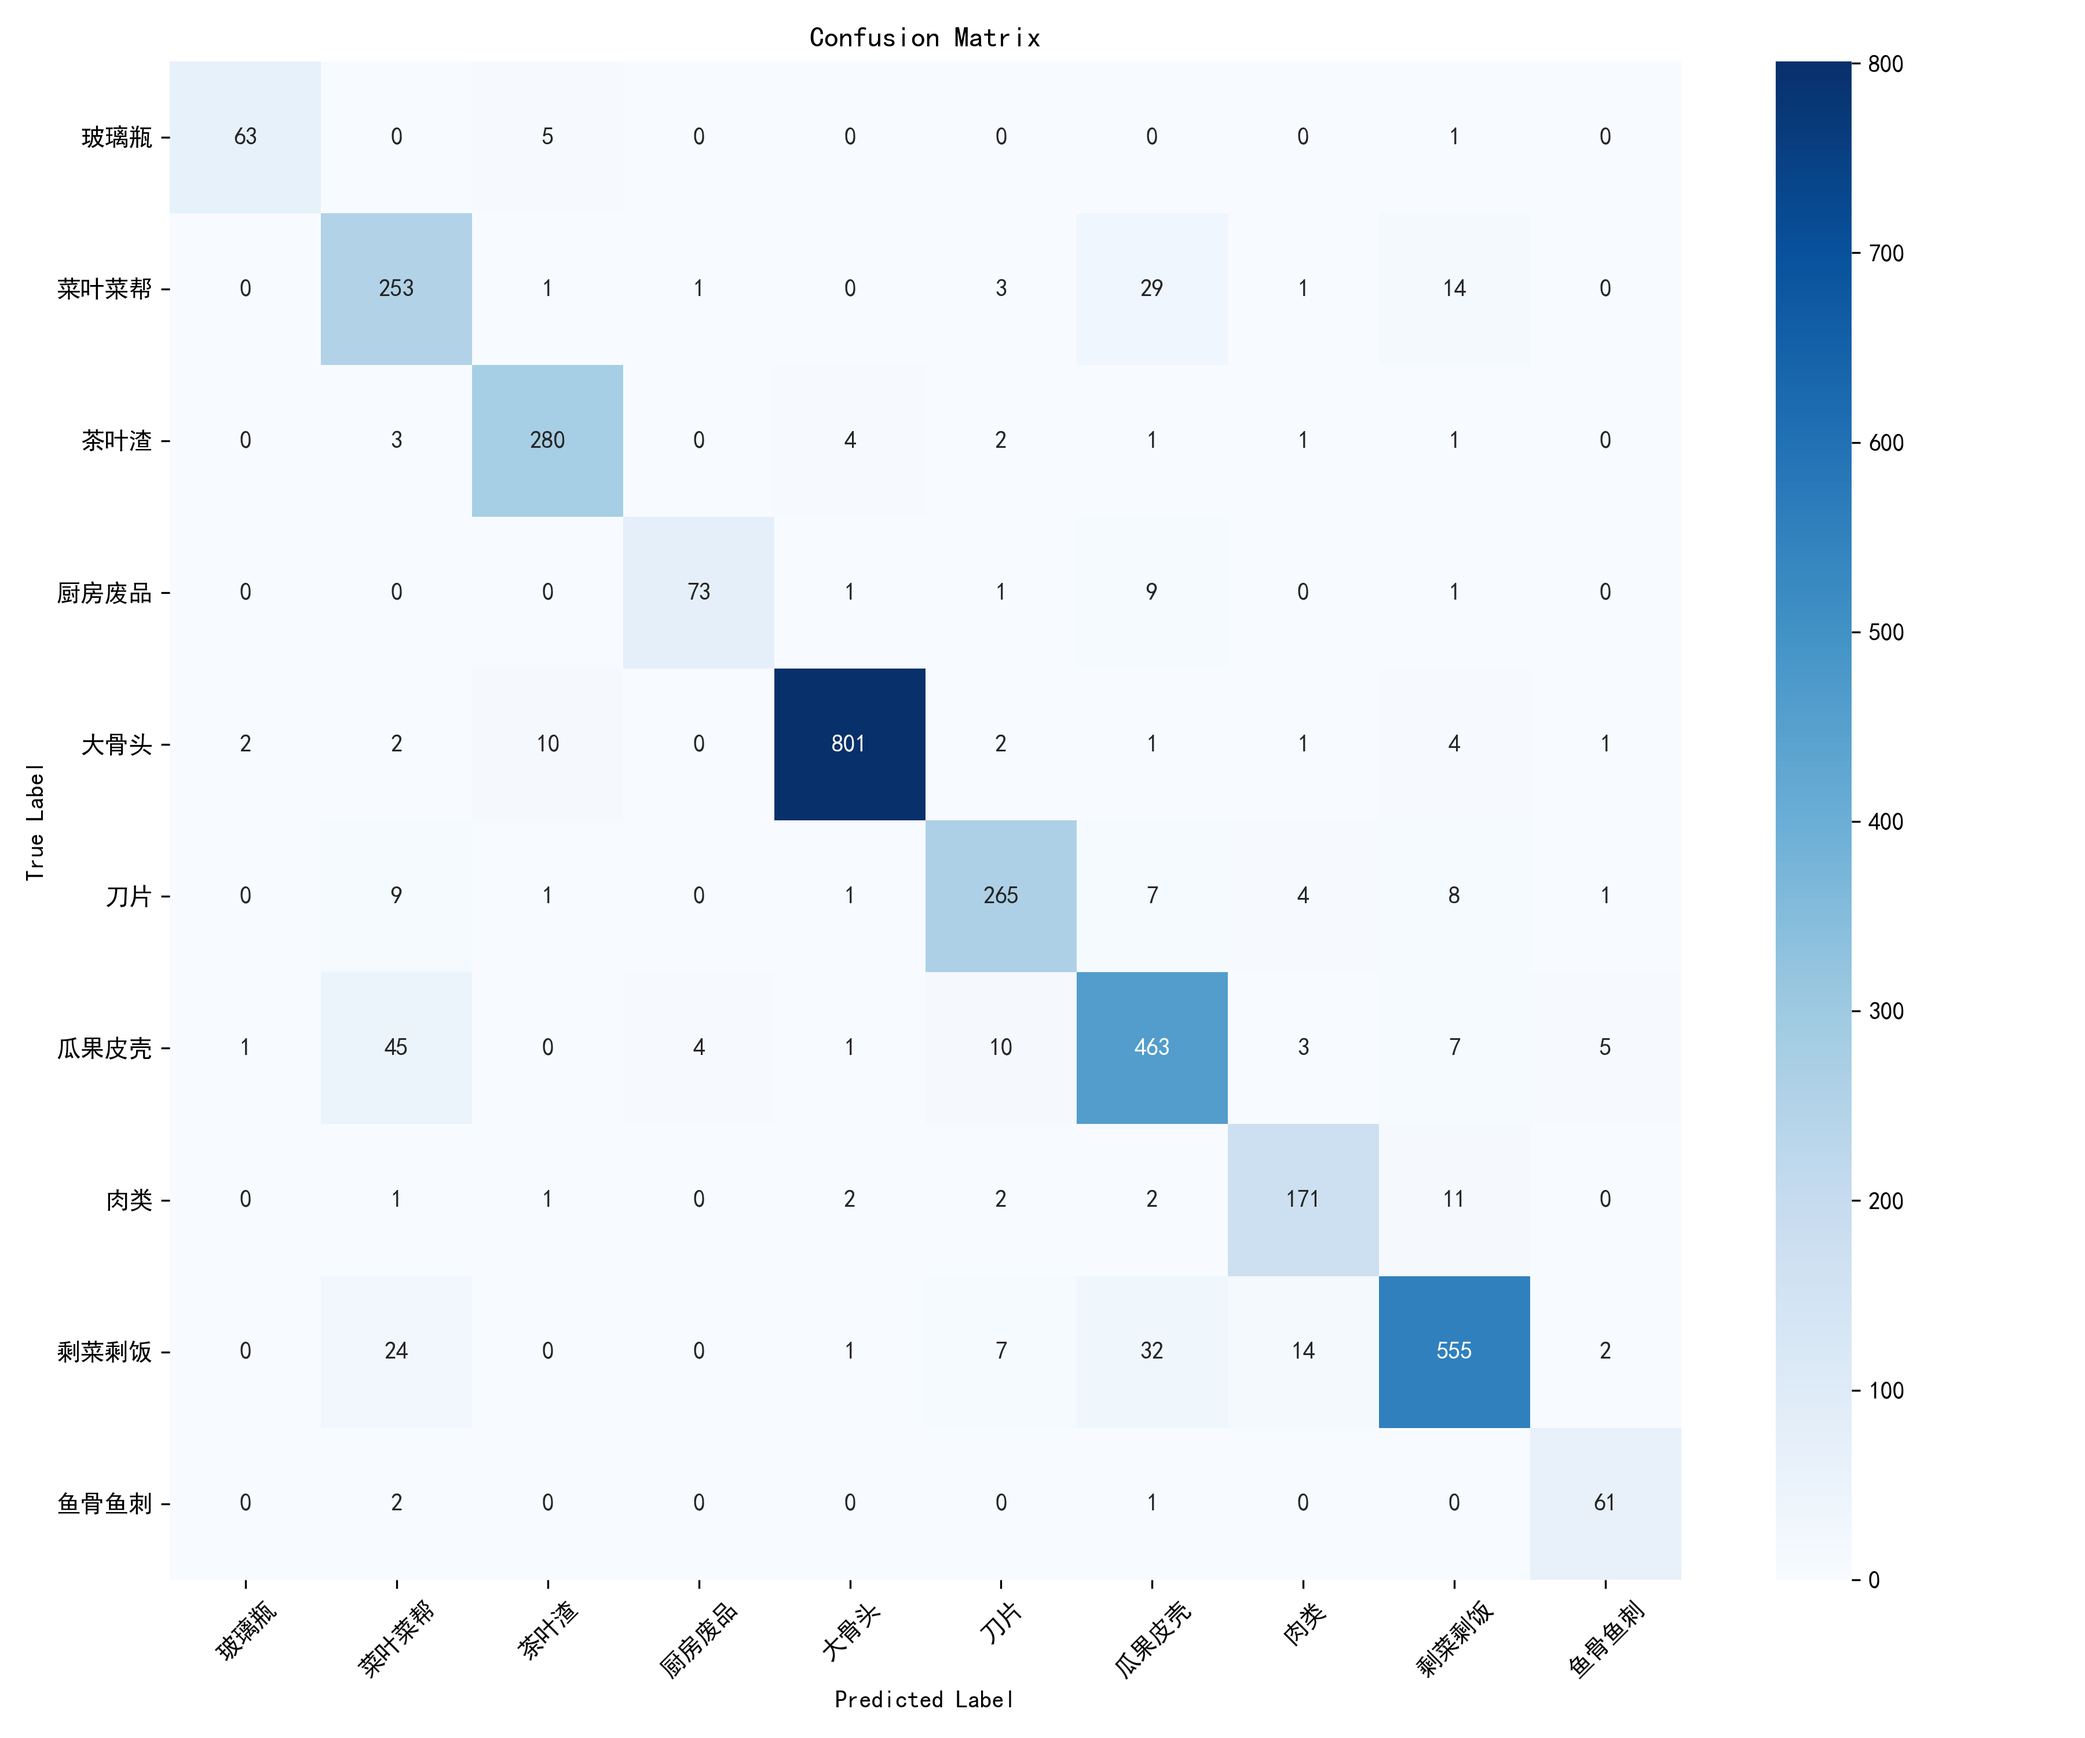
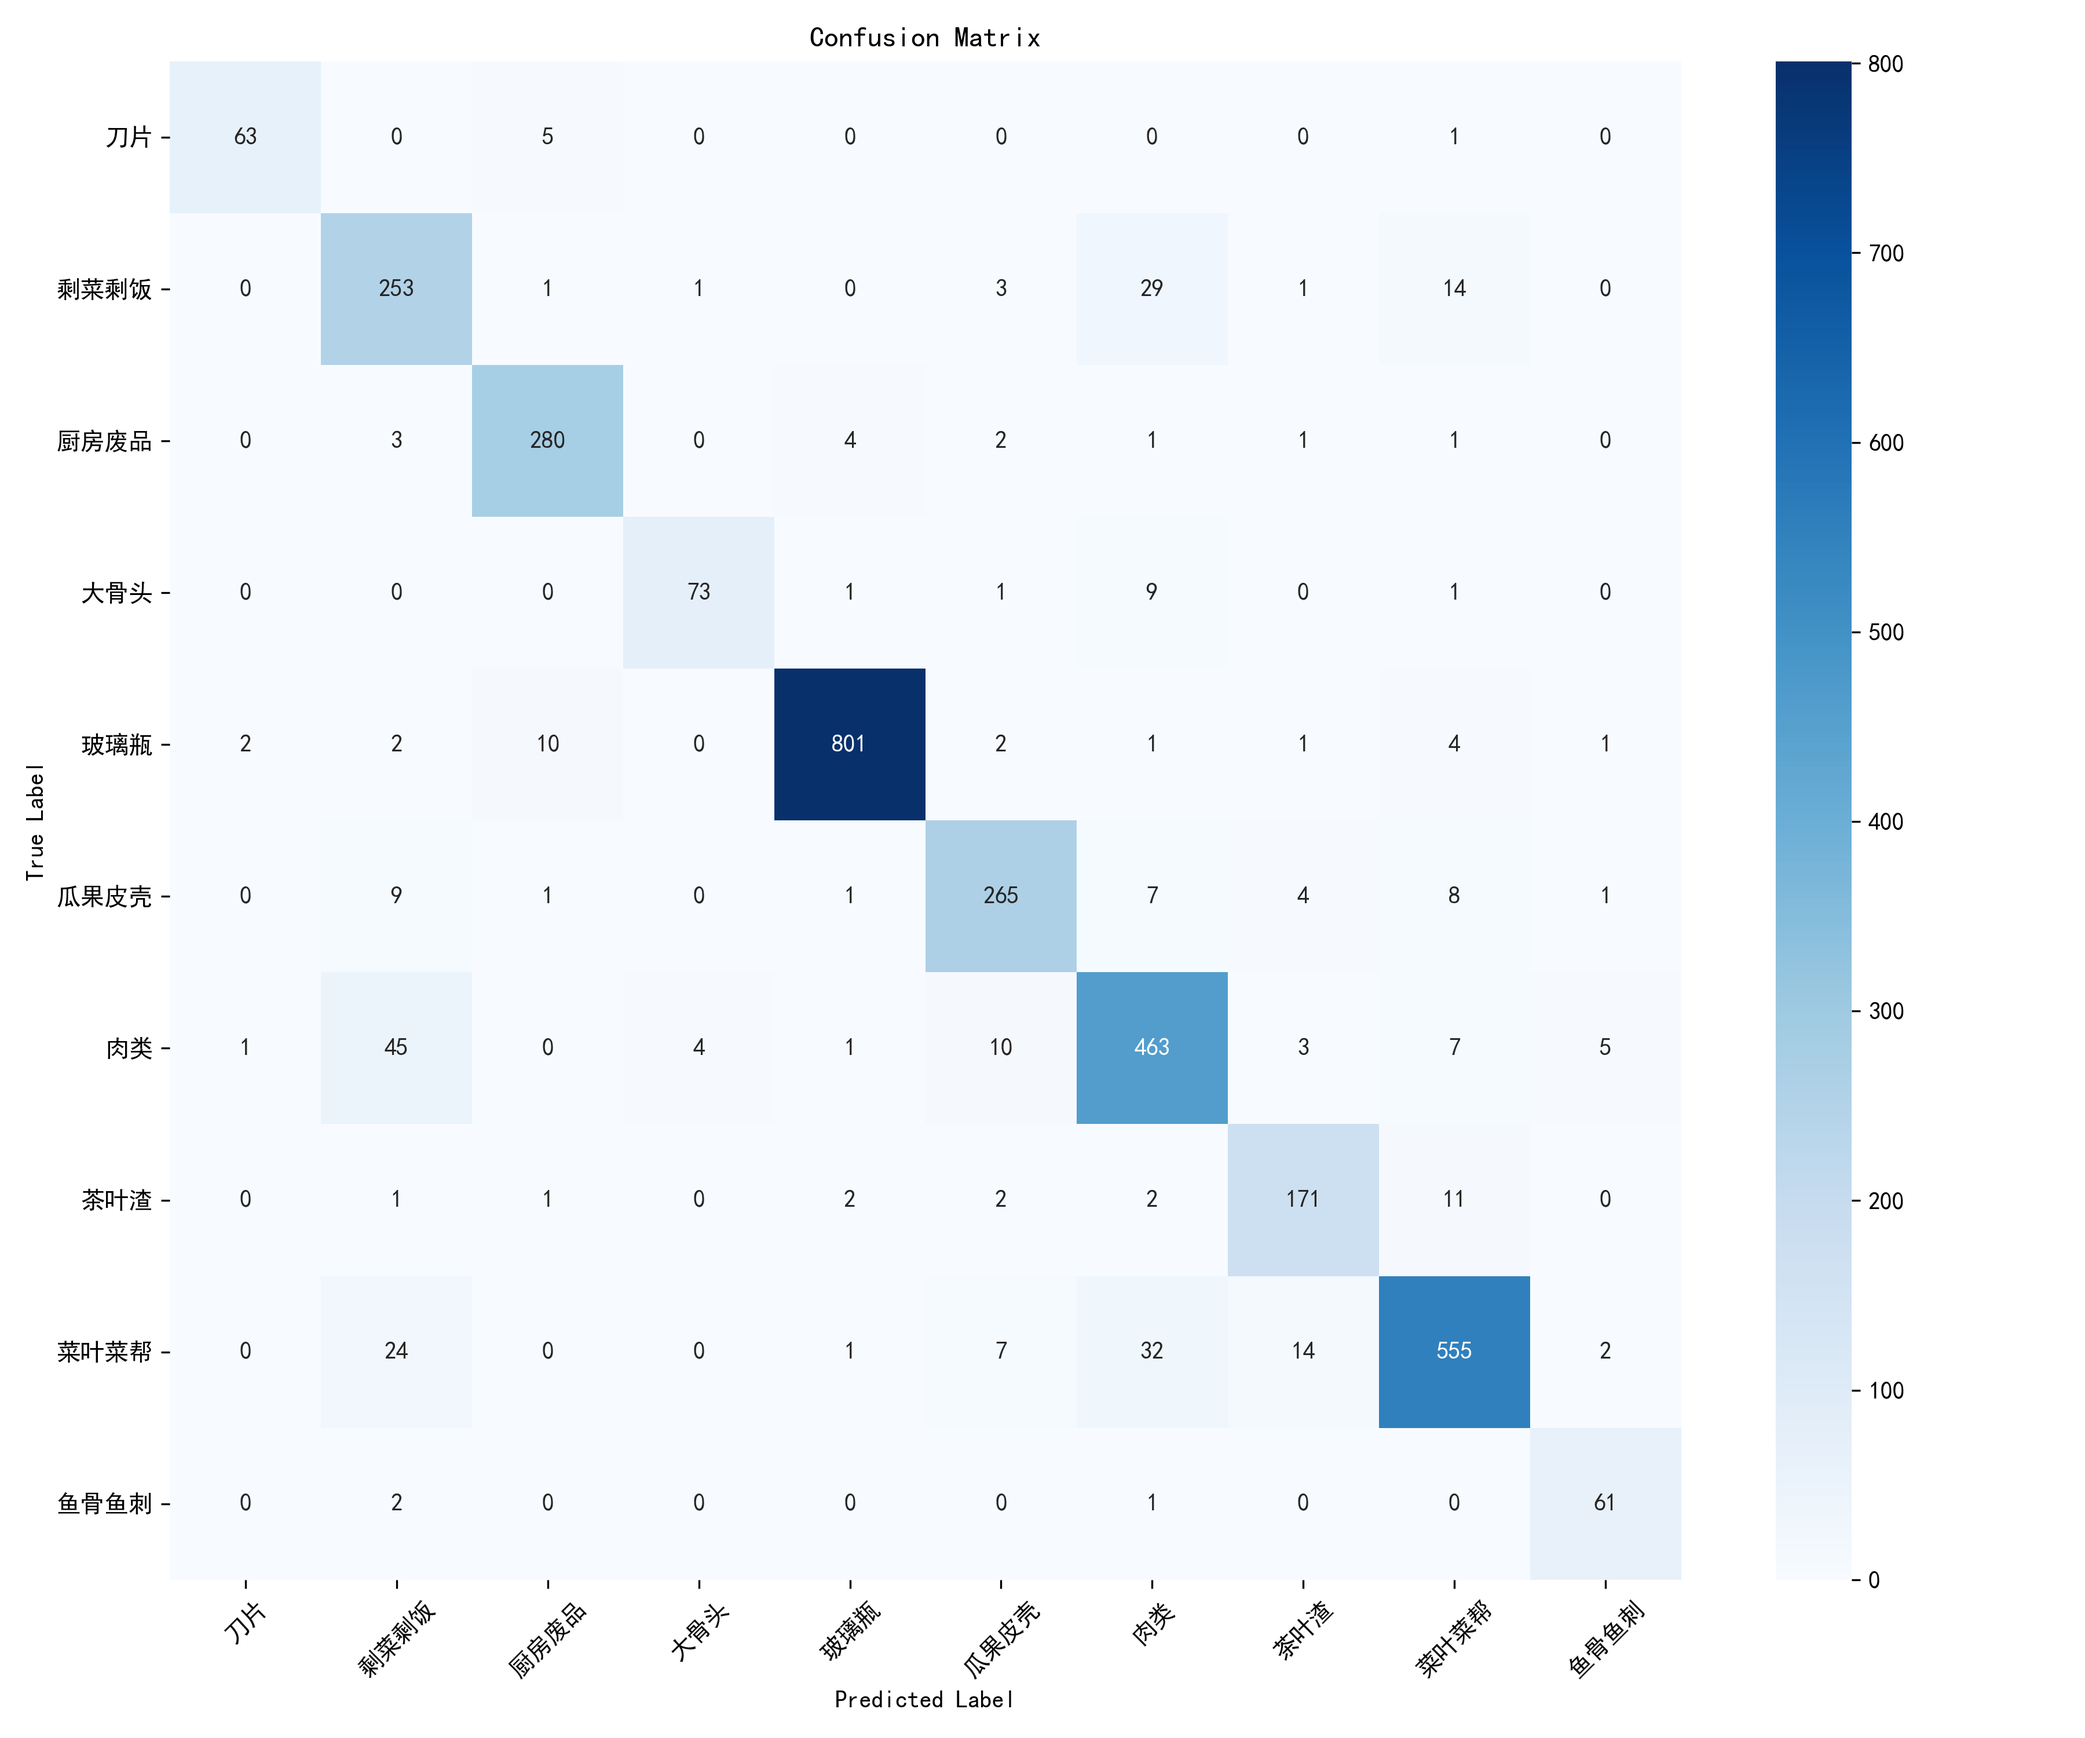
结束

diff --git a/get_result.py b/get_result.py
@@ -12,7 +12,18 @@ import pandas as pd
 plt.rcParams['font.sans-serif'] = ['SimHei']      # 支持中文
 plt.rcParams['axes.unicode_minus'] = False        # 解决负号 '-' 显示为方块的问题
 
-class_names = ['玻璃瓶', '菜叶菜帮', '茶叶渣', '厨房废品', '大骨头', '刀片', '瓜果皮壳', '肉类', '剩菜剩饭', '鱼骨鱼刺']
+class_names = [
+    "刀片",
+    "剩菜剩饭",
+    "厨房废品",
+    "大骨头",
+    "玻璃瓶",
+    "瓜果皮壳",
+    "肉类",
+    "茶叶渣",
+    "菜叶菜帮",
+    "鱼骨鱼刺"
+]
 
 imagenet_mean = [0.485, 0.456, 0.406]
 imagenet_std = [0.229, 0.224, 0.225]
@@ -70,8 +81,8 @@ print(f"Top-5 Accuracy: {top5_acc:.4f}")
 # ------------------------ 分类报告 ------------------------
 report = classification_report(all_labels, all_preds, target_names=class_names, output_dict=True)
 df_report = pd.DataFrame(report).transpose()
-df_report.to_excel("classification_report.xlsx", index=True)  # 输出 Excel 文件
-print("分类报告已保存为 classification_report.xlsx")
+df_report.to_excel("classification_reportA.xlsx", index=True)  # 输出 Excel 文件
+print("分类报告已保存为 classification_reportA.xlsx")
 
 # ------------------------ 混淆矩阵 ------------------------
 cm = confusion_matrix(all_labels, all_preds)

diff --git a/inference.py b/inference.py
@@ -1,0 +1,44 @@
+import torch
+import torchvision
+from torchvision import transforms
+from PIL import Image
+import torch.nn as nn
+class_names = [
+    "刀片",
+    "剩菜剩饭",
+    "厨房废品",
+    "大骨头",
+    "玻璃瓶",
+    "瓜果皮壳",
+    "肉类",
+    "茶叶渣",
+    "菜叶菜帮",
+    "鱼骨鱼刺"
+]
+
+device = 'cpu'
+# device = 'cuda'
+
+net = torchvision.models.resnet18(weights=None)
+net.fc = nn.Linear(net.fc.in_features, 10)  
+net.load_state_dict(torch.load('./models/test_best_100epoch_resnet18.pth', map_location=device))
+net = net.to(device)
+net.eval()
+
+transform = transforms.Compose([
+    transforms.Resize(256),
+    transforms.CenterCrop(224),
+    transforms.ToTensor(),
+    transforms.Normalize(mean=[0.485, 0.456, 0.406],
+                         std=[0.229, 0.224, 0.225])
+])
+
+img_path = './datasets/test/unknown/img_ (10).png' 
+img = Image.open(img_path).convert('RGB')
+img_tensor = transform(img).unsqueeze(0).to(device) 
+
+with torch.no_grad():
+    output = net(img_tensor)
+    pred_class = torch.argmax(output, dim=1).item()
+
+print(f"预测类别索引：{class_names[pred_class]}")
